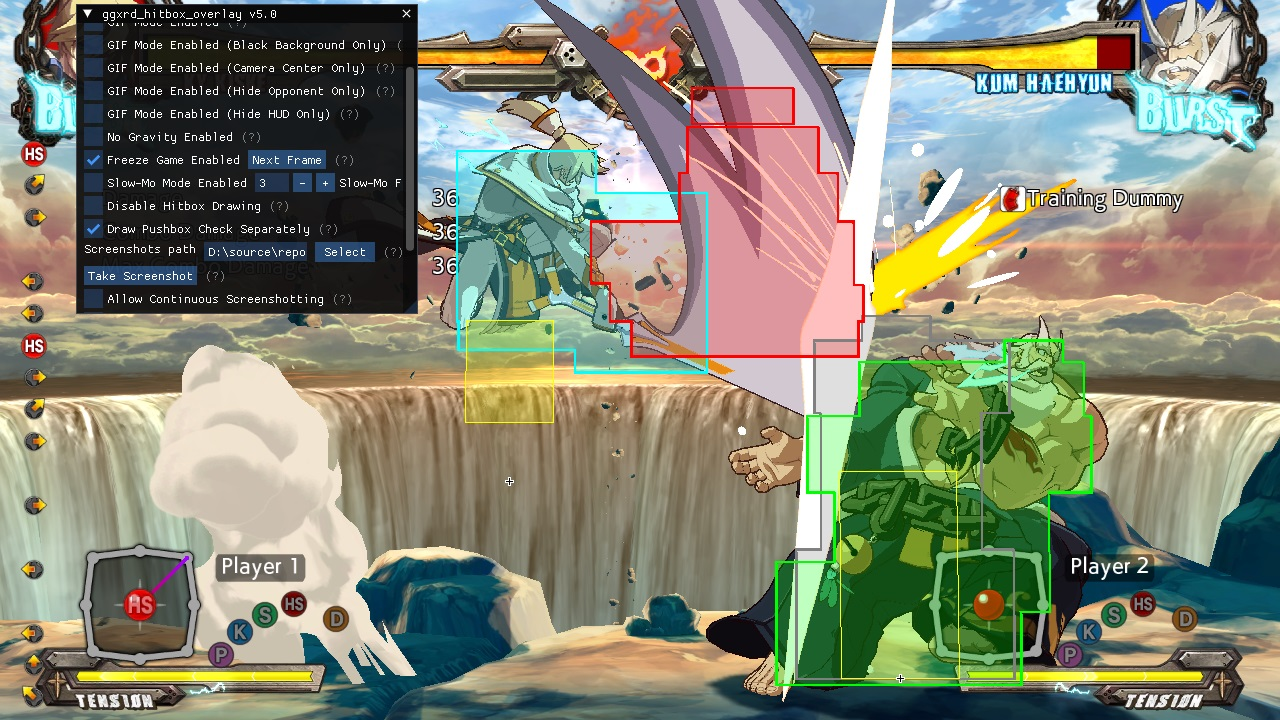
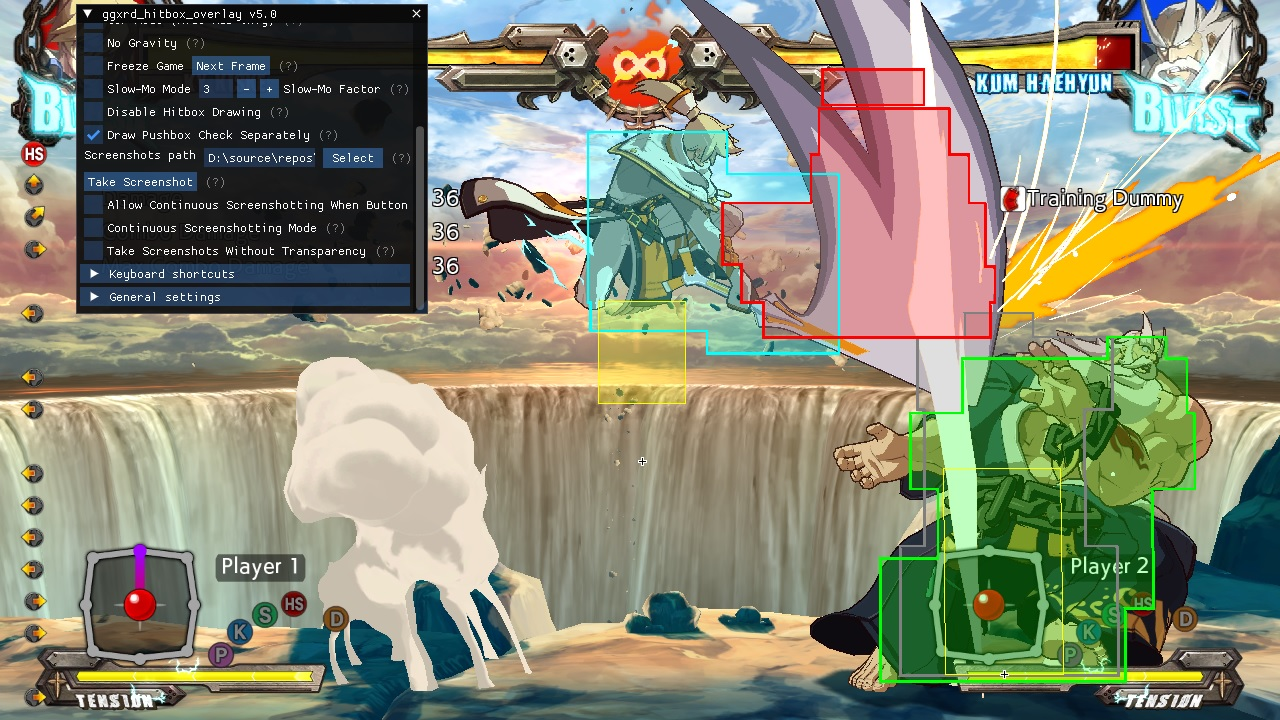
some ui renames

diff --git a/ggxrd_hitbox_overlay/UI.cpp b/ggxrd_hitbox_overlay/UI.cpp
@@ -185,29 +185,29 @@ void UI::onEndScene(IDirect3DDevice9* device) {
 	ImGui::Begin(windowTitle.c_str(), &visible);
 	if (ImGui::CollapsingHeader("Settings")) {
 		if (ImGui::CollapsingHeader("Hitbox settings")) {
-			stateChanged = stateChanged || ImGui::Checkbox("GIF Mode Enabled", &gifModeOn);
+			stateChanged = stateChanged || ImGui::Checkbox("GIF Mode", &gifModeOn);
 			ImGui::SameLine();
 			HelpMarker("GIF mode is:\n"
 				"; 1) Background becomes black\n"
 				"; 2) Camera is centered on you\n"
 				"; 3) Opponent is invisible and invulnerable\n"
 				"; 4) Hide HUD");
-			stateChanged = stateChanged || ImGui::Checkbox("GIF Mode Enabled (Black Background Only)", &gifModeToggleBackgroundOnly);
+			stateChanged = stateChanged || ImGui::Checkbox("GIF Mode (Black Background Only)", &gifModeToggleBackgroundOnly);
 			ImGui::SameLine();
 			HelpMarker("Makes background black (and, for screenshotting purposes, - effectively transparent, if Post Effect is turned off in the game's graphics settings).");
-			stateChanged = stateChanged || ImGui::Checkbox("GIF Mode Enabled (Camera Center Only)", &gifModeToggleCameraCenterOnly);
+			stateChanged = stateChanged || ImGui::Checkbox("GIF Mode (Camera Center Only)", &gifModeToggleCameraCenterOnly);
 			ImGui::SameLine();
 			HelpMarker("Centers the camera on you.");
-			stateChanged = stateChanged || ImGui::Checkbox("GIF Mode Enabled (Hide Opponent Only)", &gifModeToggleHideOpponentOnly);
+			stateChanged = stateChanged || ImGui::Checkbox("GIF Mode (Hide Opponent Only)", &gifModeToggleHideOpponentOnly);
 			ImGui::SameLine();
 			HelpMarker("Make the opponent invisible and invulnerable.");
-			stateChanged = stateChanged || ImGui::Checkbox("GIF Mode Enabled (Hide HUD Only)", &gifModeToggleHudOnly);
+			stateChanged = stateChanged || ImGui::Checkbox("GIF Mode (Hide HUD Only)", &gifModeToggleHudOnly);
 			ImGui::SameLine();
 			HelpMarker("Hides the HUD.");
-			stateChanged = stateChanged || ImGui::Checkbox("No Gravity Enabled", &noGravityOn);
+			stateChanged = stateChanged || ImGui::Checkbox("No Gravity", &noGravityOn);
 			ImGui::SameLine();
 			HelpMarker("Prevents you from falling, meaning you remain in the air as long as 'No Gravity Mode' is enabled.");
-			stateChanged = stateChanged || ImGui::Checkbox("Freeze Game Enabled", &freezeGame);
+			stateChanged = stateChanged || ImGui::Checkbox("Freeze Game", &freezeGame);
 			ImGui::SameLine();
 			if (ImGui::Button("Next Frame")) {
 				allowNextFrame = true;
@@ -216,7 +216,7 @@ void UI::onEndScene(IDirect3DDevice9* device) {
 			ImGui::SameLine();
 			HelpMarker("Freezes the current frame of the game and stops gameplay from advancing. You can advance gameplay to the next frame using the 'Next Frame' button."
 				" It is way more convenient to use this feature with shortcuts, which you can configure in the 'Keyboard shortcuts' section below.");
-			stateChanged = stateChanged || ImGui::Checkbox("Slow-Mo Mode Enabled", &slowmoGame);
+			stateChanged = stateChanged || ImGui::Checkbox("Slow-Mo Mode", &slowmoGame);
 			ImGui::SameLine();
 			int slowmoTimes = settings.slowmoTimes;
 			ImGui::SetNextItemWidth(80.F);
@@ -284,7 +284,7 @@ void UI::onEndScene(IDirect3DDevice9* device) {
 				" will be able to take screenshots with transparency. Screenshots are copied to clipboard by default, but if 'Screenshots path' is set,"
 				" they're saved there instead.");
 			bool allowContinuousScreenshotting = settings.allowContinuousScreenshotting;
-			if (ImGui::Checkbox("Allow Continuous Screenshotting", &allowContinuousScreenshotting)) {
+			if (ImGui::Checkbox("Allow Continuous Screenshotting When Button Is Held", &allowContinuousScreenshotting)) {
 				settings.allowContinuousScreenshotting = allowContinuousScreenshotting;
 				needWriteSettings = true;
 			}
